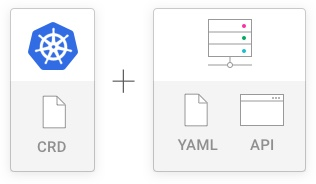
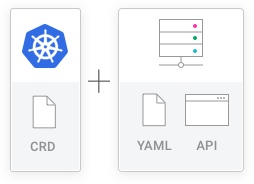
Simplified the homepage markup a bit for easier future updates. Small style revisions for the homepage diagrams. Replaced the Platform Agnostic diagram with the revised one.

diff --git a/docs/.vuepress/theme/styles/custom/pages/_page-home.scss b/docs/.vuepress/theme/styles/custom/pages/_page-home.scss
@@ -2,7 +2,7 @@
 // Homepage
 // 
 
-$home-feature-icon-bottom-spacing: 2.625rem;
+$home-feature-icon-bottom-spacing: 2rem;
 
 .page-container--home {
 
@@ -98,8 +98,36 @@ $home-feature-icon-bottom-spacing: 2.625rem;
 
 .product-features__item {
   
-  .inline-svg {
+  img {
     margin: 0 auto $home-feature-icon-bottom-spacing auto;
+  }
+
+  p {
+    margin: 0;
+    padding: 0;
+  }
+
+  // individual content blocks
+
+  &.content__feature-block-content-1 {
+
+    img {
+      max-width: 13.875rem;
+    }
+  }
+
+  &.content__feature-block-content-2 {
+
+    img {
+      max-width: 14rem;
+    }
+  }
+
+  &.content__feature-block-content-3 {
+
+    img {
+      max-width: 14.625rem;
+    }
   }
 }
 
@@ -311,6 +339,34 @@ $home-feature-icon-bottom-spacing: 2.625rem;
     text-transform: uppercase;
     color: $color-4;
     margin-bottom: 2.188rem;
+  }
+
+  // individual diagram images
+
+  // @todo 
+  // these may become one large image so that
+  // they can be shared easily as one encompassing diagram
+
+  [class*=".content__before-after-diagram"] {
+
+    img {
+      display: block;
+      margin: 0 auto;
+    }
+  }
+
+  .content__before-after-diagram-1 {
+
+    img {
+      max-width: 28.313rem;
+    }
+  }
+
+  .content__before-after-diagram-2 {
+
+    img {
+      max-width: 19.438rem;
+    }
   }
 }
 

diff --git a/docs/.vuepress/site-config/product-info.js b/docs/.vuepress/site-config/product-info.js
@@ -12,7 +12,7 @@ module.exports = {
   author: "Kong",
   repo: "https://github.com/kong/kuma", // @todo update with the finalize repo
   repoButtonLabel: "Star",
-  logo: "/images/konvoy-logo.svg",
+  logo: "/images/brand/kuma-logo.svg",
   hostname: "https://kuma.io/",
   cliNamespace: "kumactl"
 }

diff --git a/docs/README.md b/docs/README.md
@@ -12,7 +12,7 @@ testimonialPortraitAlt: Marco Palladino
 <!-- page masthead -->
 
 ::: slot masthead-main-title
-# Build, Secure and Observe your modern Service Mesh
+# Build, Secure and Observe<br> your modern Service Mesh
 :::
 
 ::: slot masthead-sub-title
@@ -20,28 +20,28 @@ testimonialPortraitAlt: Marco Palladino
 :::
 
 ::: slot masthead-diagram
-<img src="/images/diagrams/main-diagram.png" srcset="/images/diagrams/main-diagram@2x.png 2x" alt="Kuma service diagram">
+![Kuma service diagram](/images/diagrams/main-diagram@2x.png)
 :::
 
 <!-- feature blocks -->
 
 ::: slot feature-block-content-1
 ### Universal Control Plane
-<img src="/images/diagrams/diagram-universal-cp.jpg" srcset="/images/diagrams/diagram-universal-cp@2x.jpg 2x" alt="Universal Control Plane diagram">
+![Universal Control Plane diagram](/images/diagrams/diagram-universal-cp@2x.jpg)
 
 Built on top of Envoy, Kuma is a modern control plane to orchestrate L4/L7 traffic, including Microservices and Service Mesh.
 :::
 
 ::: slot feature-block-content-2
 ### Powerful Policies
-<img src="/images/diagrams/diagram-powerful-policies.jpg" srcset="/images/diagrams/diagram-powerful-policies@2x.jpg 2x" alt="Universal Control Plane diagram">
+![Universal Control Plane diagram](/images/diagrams/diagram-powerful-policies@2x.jpg)
 
 Out of the box Ingress and Service Mesh service management policies for security, observability, routing, and more.
 :::
 
 ::: slot feature-block-content-3
 ### Platform Agnostic
-<img src="/images/diagrams/diagram-platform-agnostic.jpg" srcset="/images/diagrams/diagram-platform-agnostic@2x.jpg 2x" alt="Platform Agnostic diagram">
+![Platform Agnostic diagram](/images/diagrams/diagram-platform-agnostic@2x.jpg)
 
 Enterprise-ready and platform agnostic with native Kubernetes + CRD support, as well as VM and Bare Metal via YAML + REST.
 :::
@@ -110,11 +110,11 @@ $ kumactl create policy \
 :::
 
 ::: slot before-after-diagram-1
-<img src="/images/diagrams/diagram-before.jpg" srcset="/images/diagrams/diagram-before@2x.jpg 2x" alt="Before implementing Kuma">
+![Before implementing Kuma](/images/diagrams/diagram-before@2x.jpg)
 :::
 
 ::: slot before-after-diagram-2
-<img src="/images/diagrams/diagram-after.jpg" srcset="/images/diagrams/diagram-after@2x.jpg 2x" alt="After implementing Kuma">
+![After implementing Kuma](/images/diagrams/diagram-after@2x.jpg)
 :::
 
 <!-- newsletter -->
